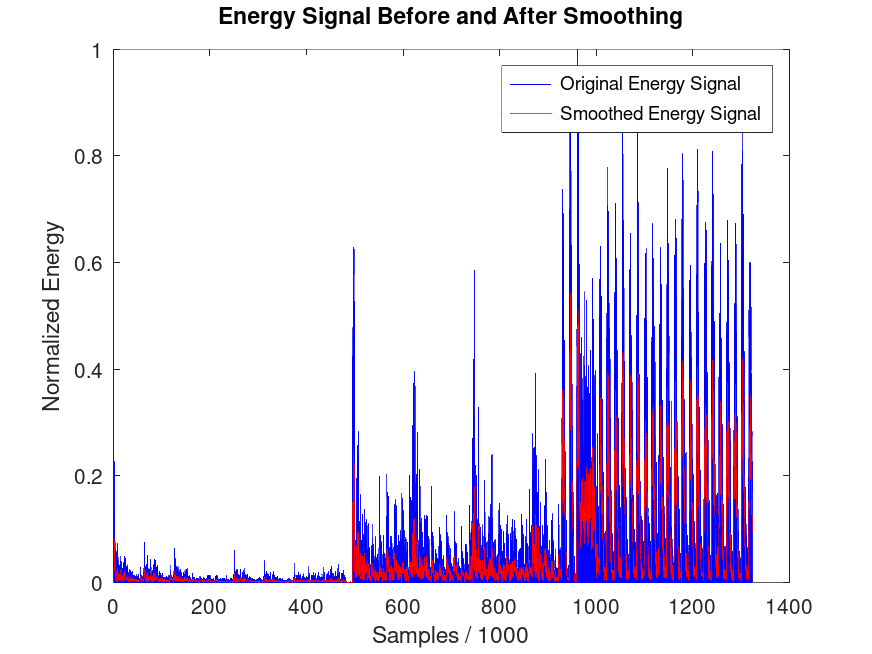
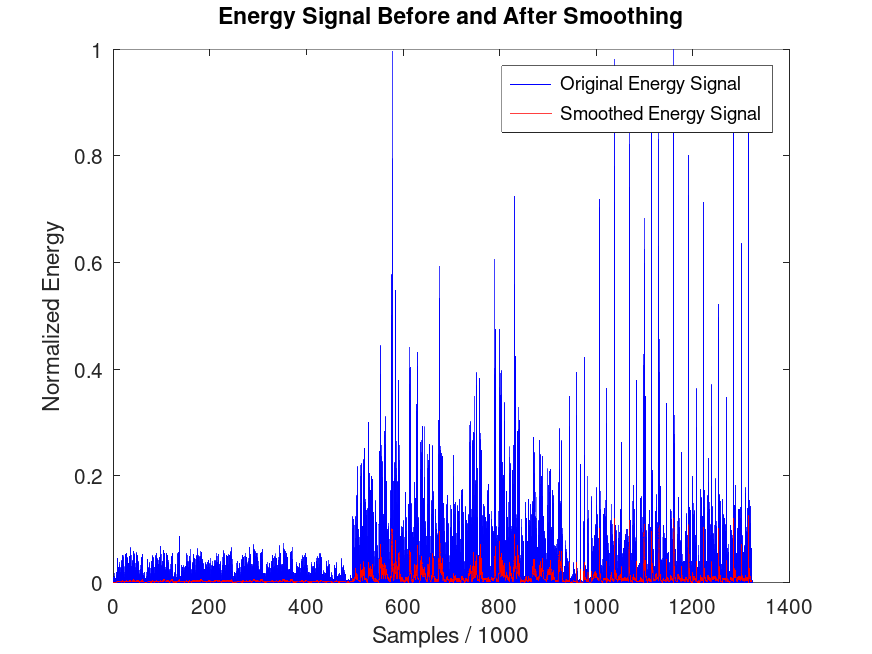
bpm analysis for multiple frequencies

Changed region(s): [[0.1239, 0.2141, 0.867, 0.8869]]

diff --git a/src/rhythmic_inside/main.m b/src/rhythmic_inside/main.m
@@ -7,15 +7,8 @@ if length(args) >= 1
   % Use the first argument as the WAV file path if provided
   wavFilePath = args{1};
 else
-  % Open a GUI dialog to select a WAV file if no arguments are provided
-  [fileName, pathName] = uigetfile('*.wav', 'Select the WAV file');
-  if isequal(fileName,0) || isequal(pathName,0)
-     disp('User canceled the operation.');
-     return;
-  else
-     wavFilePath = fullfile(pathName, fileName);
-     disp(['User selected: ', wavFilePath]);
-  end
+  % Use the file picker to select the WAV file
+  wavFilePath = selectWAV();;
 end
 
 % Check if the 'signal' package is installed and load it
@@ -28,20 +21,17 @@ end
 % Read WAV file
 [signal, fs] = audioread(wavFilePath); % Read audio data and sampling frequency from WAV file
 
-% Preprocess the audio file
-[filteredSignal] = preprocess(signal, fs);
+% Initialize the BPM array and cutoff frequency
+bpmArray = [];
+cutoff = 0.5;
 
-% Calculate the energy signal and smooth it
-[smoothedEnergySignal] = calculateEnergy(filteredSignal, fs);
+% Call the recursive filter function
+bpmArray = recursiveFilter(signal, fs, cutoff, bpmArray);
 
-% Use the auto-correlation function to identify the periodicity in the signal
-[lag, acf] = autoCorrelation(smoothedEnergySignal, fs);
+% TODO: plot the BPM array
 
-% Detect peaks
-[peaks, locations] = detectPeaks(acf, lag, fs);
+% Calculate the average BPM from the collected BPMs
+averageBPM = mean(bpmArray);
 
-% Calculate the BPM
-bpm = calculateBPM(locations);
-
-% Display the estimated BPM
-fprintf('Estimated BPM: %d\n', round(bpm));
+% Display average BPM
+disp(['Average BPM: ', num2str(averageBPM)]);

diff --git a/src/rhythmic_inside/customFilter.m b/src/rhythmic_inside/customFilter.m
@@ -1,0 +1,34 @@
+function filteredSignal = customFilter(signal, fs, high, normalizedCutoff)
+
+% Include configuration file
+source('config.m');
+
+if size(signal, 2) > 1
+    signal = mean(signal, 2); % Averaging two channels to convert stereo to mono
+end
+
+% Set filter type based on 'high' flag
+if high
+    variant = 'high'; % High-pass filter
+else
+    variant = 'low'; % Low-pass filter
+end
+
+% Check for valid normalized cutoff frequency
+if normalizedCutoff <= 0 || normalizedCutoff >= 1
+    error('Invalid normalized cutoff frequency');
+end
+
+% Calculate filter order and normalized cutoff using Butterworth design
+[n, Wn] = buttord(normalizedCutoff, normalizedCutoff * 1.1, PASSBAND_RIPPLE, STOPBAND_ATTENUATION);
+
+% Limit filter order to prevent instability
+order = min(n, FILTER_ORDER_LIMIT);
+
+% Design Butterworth filter according to the specified variant (high or low)
+[b, a] = butter(order, Wn, variant);
+
+% Apply filter using zero-phase method
+filteredSignal = filtfilt(b, a, signal);
+
+end

diff --git a/src/rhythmic_inside/recursiveFilter.m b/src/rhythmic_inside/recursiveFilter.m
@@ -1,0 +1,25 @@
+function bpmArray = recursiveFilter(signal, fs, cutoffFrequency, bpmArray)
+
+% Include config file
+source('config.m');
+
+if cutoffFrequency > LOWEST_NORMALIZED_CUTOFF_FREQUENCY
+    % Apply highpass filter
+    highpassSignal = customFilter(signal, fs, true, cutoffFrequency);
+
+    % Calculate BPM for highpass signal and add to bpmArray
+    bpm = processSignalForBPM(highpassSignal, fs);
+    bpmArray(end+1) = bpm;
+    %printf('BPM for cutoff frequency %d: %d\n', cutoffFrequency, bpm);
+    
+    % Apply lowpass filter and then recursively process each half
+    lowpassSignal = customFilter(signal, fs, false, cutoffFrequency);
+    
+    % Calculate new cutoff frequency for the next level
+    cutoffFrequency /= 2;
+    
+    % Recursive call for the next level with highpass of lowpass signal
+    bpmArray = recursiveFilter(lowpassSignal, fs, cutoffFrequency, bpmArray);
+end
+
+end

diff --git a/src/rhythmic_inside/processSignalForBPM.m b/src/rhythmic_inside/processSignalForBPM.m
@@ -1,0 +1,15 @@
+function bpm = processSignalForBPM(signal, fs)
+
+% Calculate the energy signal and smooth it
+[smoothedEnergySignal] = calculateEnergy(signal, fs);
+
+% Use the auto-correlation function to identify the periodicity in the signal
+[lag, acf] = autoCorrelation(smoothedEnergySignal, fs);
+
+% Detect peaks
+[peaks, locations] = detectPeaks(acf, lag, fs);
+
+% Calculate the BPM
+bpm = calculateBPM(locations);
+
+end

diff --git a/src/rhythmic_inside/config.m b/src/rhythmic_inside/config.m
@@ -8,3 +8,4 @@ PLOTS_PREFIX = '../../assets/plots/'; % Prefix for the output plots
 PASSBAND_RIPPLE = 3; % Passband ripple in dB for the Butterworth filter
 SMOOTHING_WINDOW_DURATION = 0.01; % Duration of the smoothing window in seconds
 STOPBAND_ATTENUATION = 40; % Stopband attenuation in dB for the Butterworth filter
+LOWEST_NORMALIZED_CUTOFF_FREQUENCY = 0.05; % Lowest normalized cutoff frequency for the Butterworth filter

diff --git a/src/rhythmic_inside/selectWAV.m b/src/rhythmic_inside/selectWAV.m
@@ -1,0 +1,13 @@
+function wavFilePath = selectWAV()
+
+% Open a GUI dialog to select a WAV file if no arguments are provided
+[fileName, pathName] = uigetfile('*.wav', 'Select the WAV file');
+if isequal(fileName,0) || isequal(pathName,0)
+  disp('User canceled the operation.');
+  return;
+else
+  wavFilePath = fullfile(pathName, fileName);
+  disp(['User selected: ', wavFilePath]);
+end
+
+end

diff --git a/README.md b/README.md
@@ -52,13 +52,15 @@ Test in bulk with:
 
 ## TODO
 
-- dwt
+- high freq are not suitable for bpm detection. remove them from bpm analysis?
+- peak detection: needs to be improved. threshold?
 - spectogram
 - docs
-    - testing
-    - plots
-    - more technical details
     - api?
+    - plots
+        - bpm array
+        - how do we plot peaks in acf and energy now?
+    - adjust statistical analysis
 - presentation
     - slidev!
 
